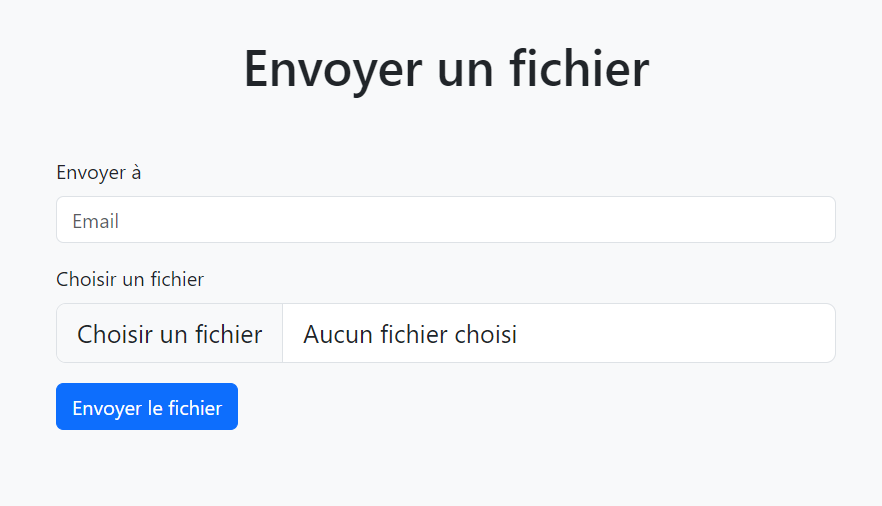
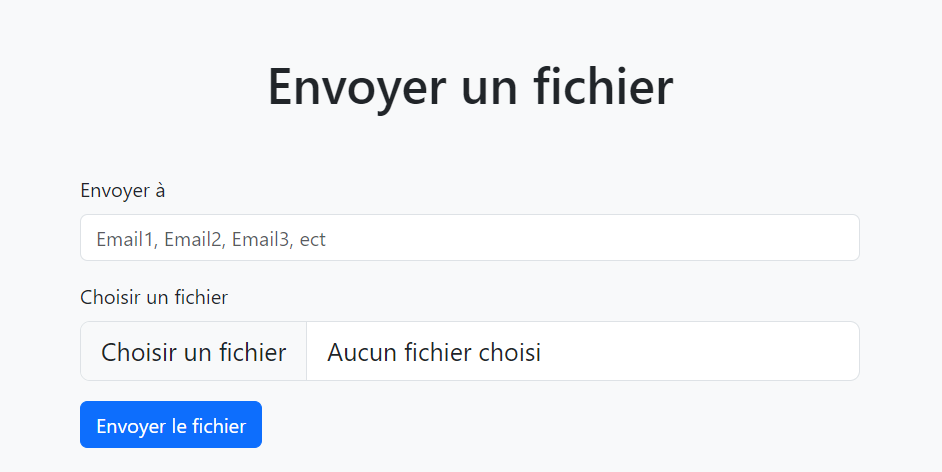
modif readme

diff --git a/README.md b/README.md
@@ -1,11 +1,12 @@
 # Réalisation d'un mini WeTransfer
 
-C'est un project scolaire a LiveCampus qui consite a réalise une version minimale de WeTransfer en php, puis le but était apprendre le développement back-end en PHP.
+C'est un project scolaire a LiveCampus qui consite a réalise une version minimale de WeTransfer en php native, puis le but était apprendre le développement back-end en PHP.
 
 ## SOMMAIRE
 
 - [Détails du projet](#DETAILS-DU-PROJET)
 - [Auteurs](#AUTEURS)
+- [Script BDD](#BDD)
 - [Inscription](#INSCRIPTION)
 - [Connexion](#CONNEXION)
 - [Envoyer](#ENVOYER-UN-FICHIER)
@@ -14,12 +15,13 @@ C'est un project scolaire a LiveCampus qui consite a réalise une version minima
 - [Modifier son profil](#MODIFIER-SON-PROFIL)
 
 ## DETAILS DU PROJET
-* Nom : OuiTransfer
-* Description : Réalisation d'un mini WeTransfer
-* Date de début : 27/02/2024
-* Date de fin : 03/02/2024
-* Langages utilisés : PHP, HTML, CSS, tailwindcss
-* Outils utilisés : Visual Studio Code, GitHub, WampServer
+
+- Nom : OuiTransfer
+- Description : Réalisation d'un mini WeTransfer
+- Date de début : 27/02/2024
+- Date de fin : 03/02/2024
+- Langages utilisés : PHP, HTML, CSS, Bootstrap
+- Outils utilisés : Visual Studio Code, GitHub, WampServer
 
 ## AUTEURS
 
@@ -28,10 +30,55 @@ C'est un project scolaire a LiveCampus qui consite a réalise une version minima
 - [@KevinLAFONTA](https://github.com/KLAFONTA)
 - [@Stanley](https://github.com/Stan97x)
 
+## Script BDD
+
+## Table Utilisateurs
+
+La table Users stocke des informations sur les utilisateurs enregistrés.
+
+### Champs
+
+- `ID` : Identifiant unique pour chaque utilisateur.
+- `nom` : Nom de l'utilisateur.
+- `email` : Adresse e-mail de l'utilisateur.
+- `password_user` : Mot de passe de l'utilisateur.
+
+## Table Fichiers
+
+La table Fichiers stocke des informations sur les fichiers téléchargés par les utilisateurs.
+
+### Champs
+
+- `ID` : Identifiant unique pour chaque fichier.
+- `nom_fichier` : Nom du fichier.
+- `nom_fichier_cryptee` : Nom du fichier crypté.
+- `id_user` : Identifiant de l'utilisateur qui a téléchargé le fichier.
+- `nombre_telechargement` : Nombre de téléchargements pour le fichier.
+
+### Clé étrangère
+
+- `id_user` : Référence le champ ID dans la table Users.
+
+## Table Partage
+
+La table Partage stocke des informations sur le partage de fichiers entre utilisateurs.
+
+### Champs
+
+- `ID` : Identifiant unique pour chaque entrée de partage.
+- `id_fichier` : Identifiant du fichier partagé.
+- `id_utilisateur_partage` : Identifiant de l'utilisateur qui partage le fichier.
+- `id_user_autorisee` : Identifiant de l'utilisateur autorisé à accéder au fichier partagé.
+
+### Clés étrangères
+
+- `id_fichier` : Référence le champ ID dans la table Fichiers.
+- `id_utilisateur_partage` : Référence le champ ID dans la table Users.
+- `id_user_autorisee` : Référence le champ ID dans la table Users.
+
 ## INSCRIPTION
 
 L'inscription de l'utilisateur est obligatoire. Le site permettant un stockage des fichiers ainsi qu'un partage personnalisé.
-
 
 ## CONNEXION
 
@@ -44,20 +91,20 @@ Une fois connecté, vous avez accès à l'ensemble des fonctionnalités du site,
 Jeu de données :
 
 - jean@gmail.com MDP : 123456
-- Louis@Pignion.fr MDP : yCCuThQ^5PiUrmr*saPK
+- Louis@Pignion.fr MDP : yCCuThQ^5PiUrmr\*saPK
 - abo@gmail.com MDP : 1234567
 
 ## ENVOYER UN FICHIER
 
 ![App Screenshot](https://github.com/YvanneROSAT/TP_oui_transfer/blob/main/assets/image/Envoyer.png?raw=true)
 
-- Le champ Email correspond à l'email de l'utilisateur qui va recevoir le fichier. 
+- Le champ Email correspond à l'email de l'utilisateur qui va recevoir le fichier.
 
 - Il est possible d'envoyer le document à plusieurs destinataires en même temps. (Exemple@mail.com,test@mail.com,...etc)
 
 - Choisir un fichier sur votre machine en local.
 
-- Envoyer le fichier -> Il sera stocké en base de données et sera  disponible au téléchargement.
+- Envoyer le fichier -> Il sera stocké en base de données et sera disponible au téléchargement.
 
 ## RECUPERER UN FICHIER
 
